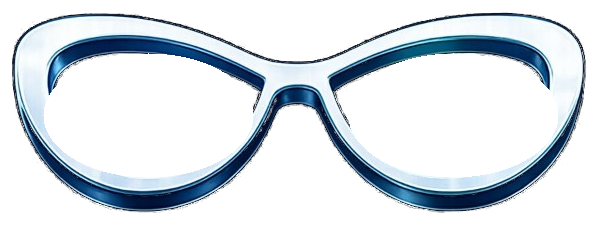
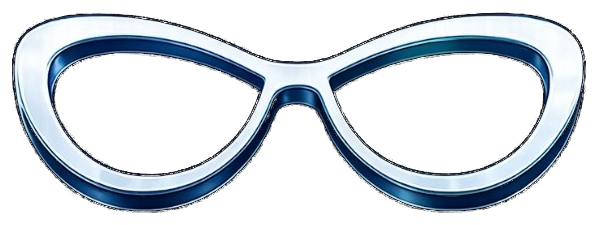
feat: process and replace frame layer with pristine clean frame image

diff --git a/process_logo.js b/process_logo.js
@@ -1,11 +1,11 @@
 const sharp = require('sharp');
 const path = require('path');
 
-const inputPath = "C:/Users/abc/.gemini/antigravity/brain/e983e1d4-86e4-4373-8194-9bd8e83b5451/.user_uploaded/media_1787574659307.jpg";
+const cleanFramePath = "C:/Users/abc/.gemini/antigravity/brain/e983e1d4-86e4-4373-8194-9bd8e83b5451/.user_uploaded/media_1787730132547.jpg";
 const outputDir = path.join(__dirname, 'public');
 
-async function extractPristineSymbols() {
-  const { data, info } = await sharp(inputPath)
+async function processCleanFrame() {
+  const { data, info } = await sharp(cleanFramePath)
     .raw()
     .toBuffer({ resolveWithObject: true });
 
@@ -13,7 +13,8 @@ async function extractPristineSymbols() {
   const height = info.height;
   const channels = info.channels;
 
-  // Global bounding box (exact same 598x225 crop)
+  // Exact same bounding box coordinates as the symbols:
+  // (214, 198) to (807, 416), size: 594x219 or padded 598x225
   let minX = width, maxX = 0, minY = height, maxY = 0;
   for (let y = 0; y < height; y++) {
     for (let x = 0; x < width; x++) {
@@ -37,16 +38,9 @@ async function extractPristineSymbols() {
   const cropW = maxX - minX + 1;
   const cropH = maxY - minY + 1;
 
-  const leftEyeRgba = Buffer.alloc(cropW * cropH * 4);
-  const rightEyeRgba = Buffer.alloc(cropW * cropH * 4);
+  console.log(`Frame cropped canvas: ${cropW}x${cropH}`);
 
-  // Left Symbol: center (360, 306)
-  const leftCX = 360, leftCY = 306;
-  const leftRadiusX = 66, leftRadiusY = 44;
-
-  // Right Symbol: center (665, 308), circular radius 50
-  const rightCX = 665, rightCY = 308;
-  const rightRadius = 50;
+  const frameRgba = Buffer.alloc(cropW * cropH * 4);
 
   for (let cy = 0; cy < cropH; cy++) {
     for (let cx = 0; cx < cropW; cx++) {
@@ -60,52 +54,24 @@ async function extractPristineSymbols() {
       const b = data[inIdx + 2];
       const maxVal = Math.max(r, g, b);
 
-      // Smooth transparency against black background
+      // Smooth anti-aliased alpha transparency for all black pixels (outside AND inside the lenses!)
       let alpha = 0;
-      if (maxVal > 15) {
-        alpha = Math.min(255, Math.floor(((maxVal - 15) / 28) * 255));
+      if (maxVal > 8) {
+        alpha = Math.min(255, Math.floor(((maxVal - 8) / 28) * 255));
       }
 
-      // --- 1. CLEAN LEFT CODE SYMBOL (</>) ---
-      // Elliptical mask perfectly hugging </>, eliminates bottom-left stray speck
-      const dxL = (ox - leftCX) / leftRadiusX;
-      const dyL = (oy - leftCY) / leftRadiusY;
-      const inLeftMask = (dxL * dxL + dyL * dyL) <= 1.0;
-
-      if (inLeftMask && (b > 60 || maxVal > 70)) {
-        leftEyeRgba[outIdx] = r;
-        leftEyeRgba[outIdx + 1] = g;
-        leftEyeRgba[outIdx + 2] = b;
-        leftEyeRgba[outIdx + 3] = alpha;
-      } else {
-        leftEyeRgba[outIdx + 3] = 0;
-      }
-
-      // --- 2. CLEAN RIGHT POWER SYMBOL (⏻) ---
-      // Circular mask centered at (665, 308), radius 50 (captures full round button, no cut bottom)
-      const distToPower = Math.hypot(ox - rightCX, oy - rightCY);
-      const inRightMask = distToPower <= rightRadius;
-
-      if (inRightMask && (g > 60 || b > 60 || maxVal > 70)) {
-        rightEyeRgba[outIdx] = r;
-        rightEyeRgba[outIdx + 1] = g;
-        rightEyeRgba[outIdx + 2] = b;
-        rightEyeRgba[outIdx + 3] = alpha;
-      } else {
-        rightEyeRgba[outIdx + 3] = 0;
-      }
+      frameRgba[outIdx] = r;
+      frameRgba[outIdx + 1] = g;
+      frameRgba[outIdx + 2] = b;
+      frameRgba[outIdx + 3] = alpha;
     }
   }
 
-  await sharp(leftEyeRgba, { raw: { width: cropW, height: cropH, channels: 4 } })
+  await sharp(frameRgba, { raw: { width: cropW, height: cropH, channels: 4 } })
     .png()
-    .toFile(path.join(outputDir, 'hero-symbol-code.png'));
+    .toFile(path.join(outputDir, 'hero-glasses-frame.png'));
 
-  await sharp(rightEyeRgba, { raw: { width: cropW, height: cropH, channels: 4 } })
-    .png()
-    .toFile(path.join(outputDir, 'hero-symbol-power.png'));
-
-  console.log('Successfully saved perfect circular/elliptical symbols with full round power button and zero specks!');
+  console.log('Saved pristine hero-glasses-frame.png directly from clean frame image!');
 }
 
-extractPristineSymbols().catch(console.error);
+processCleanFrame().catch(console.error);

diff --git a/components/HeroGlasses3D.tsx b/components/HeroGlasses3D.tsx
@@ -8,8 +8,6 @@ import Image from "next/image";
 export default function HeroGlasses3D() {
   const containerRef = useRef<HTMLDivElement>(null);
   const frameRef = useRef<HTMLDivElement>(null);
-  const leftPupilRef = useRef<HTMLDivElement>(null);
-  const rightPupilRef = useRef<HTMLDivElement>(null);
 
   useGSAP(() => {
     if (!containerRef.current || !frameRef.current) return;
@@ -21,13 +19,6 @@ export default function HeroGlasses3D() {
     const transZ = gsap.quickTo(frameRef.current, "z", { duration: 0.45, ease: "power2.out" });
     const transX = gsap.quickTo(frameRef.current, "x", { duration: 0.55, ease: "power2.out" });
     const transY = gsap.quickTo(frameRef.current, "y", { duration: 0.55, ease: "power2.out" });
-
-    // Eye Pupil Movement (Left </> and Right ⏻)
-    const leftPupilX = leftPupilRef.current ? gsap.quickTo(leftPupilRef.current, "x", { duration: 0.28, ease: "power1.out" }) : null;
-    const leftPupilY = leftPupilRef.current ? gsap.quickTo(leftPupilRef.current, "y", { duration: 0.28, ease: "power1.out" }) : null;
-
-    const rightPupilX = rightPupilRef.current ? gsap.quickTo(rightPupilRef.current, "x", { duration: 0.28, ease: "power1.out" }) : null;
-    const rightPupilY = rightPupilRef.current ? gsap.quickTo(rightPupilRef.current, "y", { duration: 0.28, ease: "power1.out" }) : null;
 
     const handleMouseMove = (e: MouseEvent) => {
       const rect = containerRef.current?.getBoundingClientRect();
@@ -54,19 +45,6 @@ export default function HeroGlasses3D() {
       transZ(Math.abs(normX * normY) * maxTransZ);
       transX(normX * 18);
       transY(normY * 14);
-
-      // Pupil Movement
-      const maxPupilShiftX = 8;
-      const maxPupilShiftY = 6;
-
-      if (leftPupilX && leftPupilY) {
-        leftPupilX(normX * maxPupilShiftX);
-        leftPupilY(normY * maxPupilShiftY);
-      }
-      if (rightPupilX && rightPupilY) {
-        rightPupilX(normX * maxPupilShiftX);
-        rightPupilY(normY * maxPupilShiftY);
-      }
     };
 
     const handleMouseLeave = () => {
@@ -76,15 +54,6 @@ export default function HeroGlasses3D() {
       transZ(0);
       transX(0);
       transY(0);
-
-      if (leftPupilX && leftPupilY) {
-        leftPupilX(0);
-        leftPupilY(0);
-      }
-      if (rightPupilX && rightPupilY) {
-        rightPupilX(0);
-        rightPupilY(0);
-      }
     };
 
     window.addEventListener("mousemove", handleMouseMove);
@@ -102,34 +71,17 @@ export default function HeroGlasses3D() {
       className="relative flex items-center justify-center select-none w-full max-w-xl h-[300px] sm:h-[360px] lg:h-[400px] mx-auto"
       style={{ perspective: "1200px" }}
     >
-      {/* 3D Container showing ONLY the two symbols */}
+      {/* 3D Container showing ONLY the base glasses layer */}
       <div
         ref={frameRef}
-        className="relative z-10 flex items-center justify-center w-full max-w-[420px] sm:max-w-[490px] aspect-[598/225]"
+        className="relative z-10 flex items-center justify-center w-full max-w-[420px] sm:max-w-[490px] aspect-[598/225] drop-shadow-[0_20px_50px_rgba(47,168,255,0.45)] cursor-pointer"
         style={{ transformStyle: "preserve-3d" }}
       >
-        {/* Left Symbol (</> Code Symbol) */}
-        <div
-          ref={leftPupilRef}
-          className="absolute inset-0 pointer-events-none drop-shadow-[0_0_15px_rgba(47,168,255,0.9)] z-20"
-        >
+        {/* Base Glasses Frame Layer */}
+        <div className="absolute inset-0 pointer-events-none z-10">
           <Image
-            src="/hero-symbol-code.png"
-            alt="Left Symbol"
-            fill
-            priority
-            className="object-contain"
-          />
-        </div>
-
-        {/* Right Symbol (⏻ Power Symbol) */}
-        <div
-          ref={rightPupilRef}
-          className="absolute inset-0 pointer-events-none drop-shadow-[0_0_15px_rgba(0,212,255,0.9)] z-20"
-        >
-          <Image
-            src="/hero-symbol-power.png"
-            alt="Right Symbol"
+            src="/hero-glasses-frame.png"
+            alt="Base Glasses Frame"
             fill
             priority
             className="object-contain"
